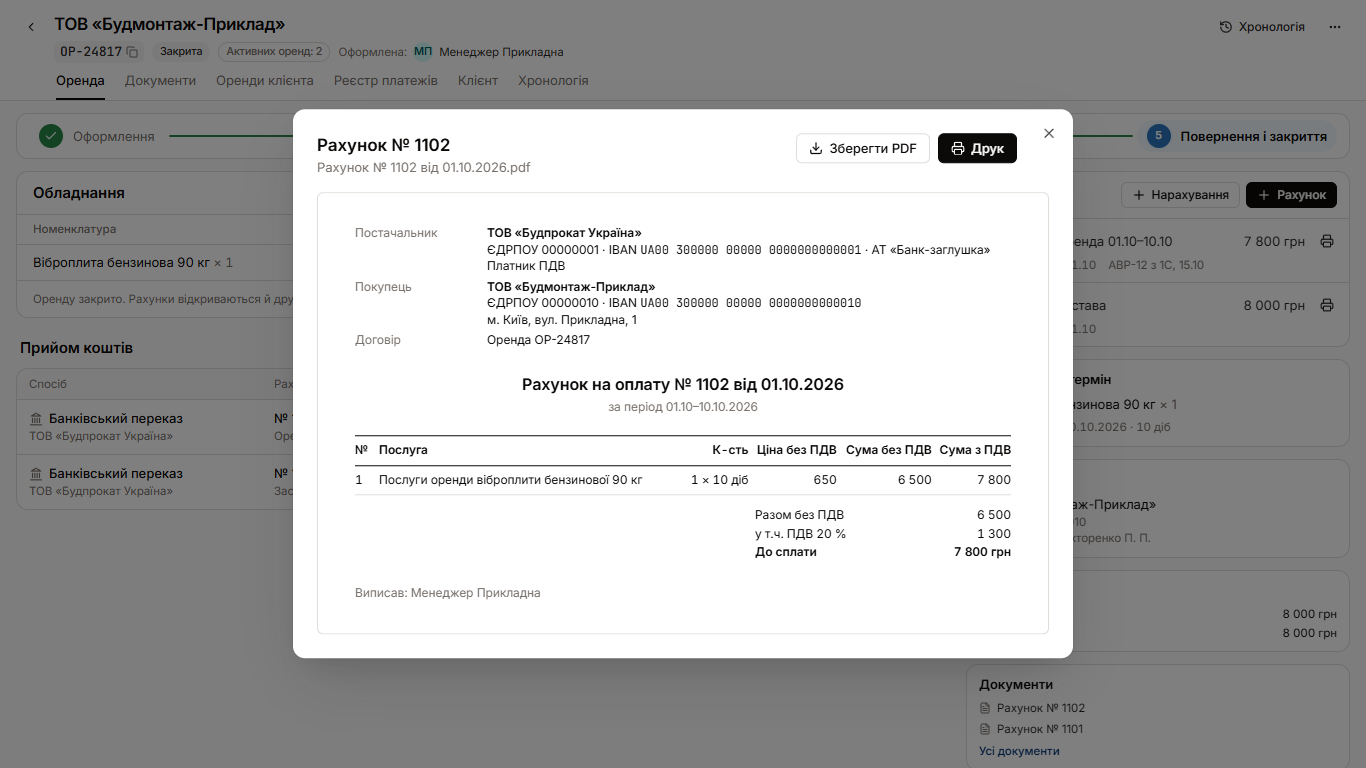
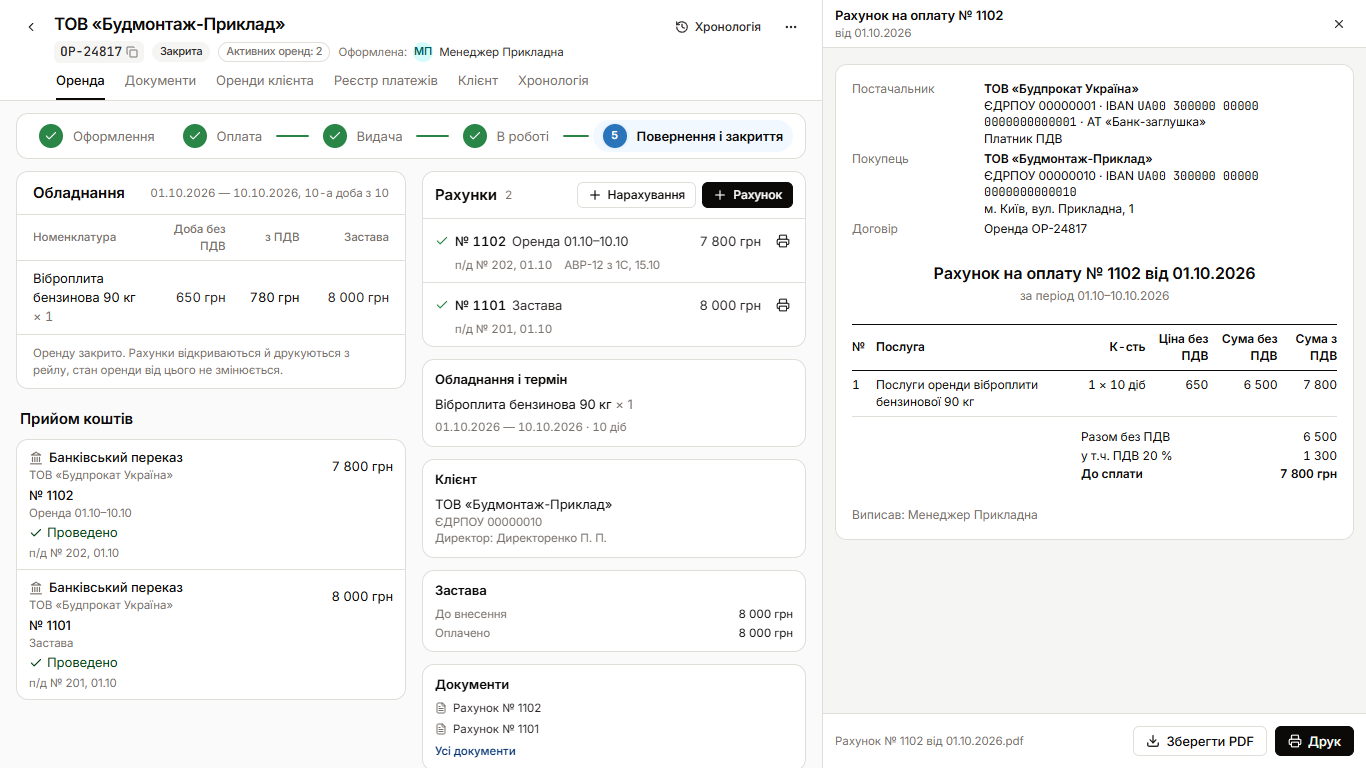
Перегляд рахунку: docked-панель замість модалки, без авто-відкриття
Модалка з рахунком вискакувала сама на всіх нових варіантах, щойно 1С
присвоювала номер, і закривала сторінку. Тепер:
- нічого не відкривається саме; рахунок відкривається тільки за дією
  менеджера (друк, «Відкрити»);
- перегляд — docked-панель праворуч за каноном CRM (DrawerShell, як
  RentDocumentDrawer): шапка h-12, тіло на canvas, футер з діями, Esc
  закриває; Dialog у CRM лишається для коротких підтверджень;
- таблиця «Прийом коштів» не ламається у вузькій колонці при відкритій
  панелі.
README, shape.md, кадри й прогін оновлено.

diff --git a/src/variants/shared/ReceiptsTable.tsx b/src/variants/shared/ReceiptsTable.tsx
@@ -7,7 +7,15 @@ import { ORG_BY_ID } from '@/mock/orgs'
 import type { Rent } from '@/mock/types'
 import { Proposal } from './Proposal'
 
-const GRID = 'grid grid-cols-[minmax(0,1.5fr)_minmax(0,1.6fr)_minmax(0,1.2fr)_6.5rem_5.5rem] items-center gap-x-3 px-3 py-2'
+const GRID =
+  'grid grid-cols-[minmax(0,1fr)_auto] items-center gap-x-3 gap-y-0.5 px-3 py-2 @[38rem]:grid-cols-[minmax(0,1.5fr)_minmax(0,1.6fr)_minmax(0,1.2fr)_6.5rem_5.5rem]'
+// Місце клітинки у вузькому вигляді; на широкому порядок за DOM.
+const NARROW = {
+  invoice: 'col-span-2 order-2 @[38rem]:col-span-1 @[38rem]:order-none',
+  status: 'col-span-2 order-3 @[38rem]:col-span-1 @[38rem]:order-none',
+  amount: 'order-1 @[38rem]:order-none',
+  vat: 'hidden @[38rem]:block',
+}
 
 /**
  * «Прийом коштів» нових варіантів: ті самі колонки, що в проді (Спосіб ·
@@ -33,8 +41,8 @@ export function ReceiptsTable({ rent }: { rent: Rent }) {
     )
   }
   return (
-    <div className="overflow-hidden rounded-lg border border-border bg-card" data-testid="receipts-table">
-      <div className={cn(GRID, 'border-b border-border bg-muted/50 py-1.5 text-label text-muted-fg')}>
+    <div className="@container overflow-hidden rounded-lg border border-border bg-card" data-testid="receipts-table">
+      <div className={cn(GRID, 'hidden border-b border-border bg-muted/50 py-1.5 text-label text-muted-fg @[38rem]:grid')}>
         <span>Спосіб</span>
         <span className="flex items-center gap-1.5">
           Рахунок
@@ -57,17 +65,17 @@ export function ReceiptsTable({ rent }: { rent: Rent }) {
               <p className="truncate text-label text-muted-fg">{ORG_BY_ID[rent.orgId].name}</p>
             </div>
             {inv ? (
-              <p className="min-w-0 text-body text-fg-2" data-pay-invoice={inv.number ?? ''}>
+              <p className={cn('min-w-0 text-body text-fg-2', NARROW.invoice)} data-pay-invoice={inv.number ?? ''}>
                 <span className="font-medium text-fg">№ {inv.number ?? '—'}</span>
                 <span className="block truncate text-label text-muted-fg">{invoiceTitle(rent, inv)}</span>
               </p>
             ) : (
-              <p className="min-w-0 text-body text-fg-2">
+              <p className={cn('min-w-0 text-body text-fg-2', NARROW.invoice)}>
                 <span className="font-medium text-fg">На балансі</span>
                 <span className="block truncate text-label text-muted-fg">рахунок не розпізнано, прив’яже бухгалтерія</span>
               </p>
             )}
-            <div>
+            <div className={NARROW.status}>
               <span className="inline-flex items-center gap-1 text-body text-success-fg">
                 <Check className="size-3.5" aria-hidden />
                 Проведено
@@ -76,8 +84,8 @@ export function ReceiptsTable({ rent }: { rent: Rent }) {
                 п/д № {p.number}, {fmtDay(p.date)}
               </p>
             </div>
-            <span className="text-right text-body tabular-nums text-fg">{formatMoney(p.amount)}</span>
-            <span className="text-right text-body tabular-nums text-muted-fg">{vat ? formatMoney(Math.round(vat)) : '—'}</span>
+            <span className={cn('text-right text-body tabular-nums text-fg', NARROW.amount)}>{formatMoney(p.amount)}</span>
+            <span className={cn('text-right text-body tabular-nums text-muted-fg', NARROW.vat)}>{vat ? formatMoney(Math.round(vat)) : '—'}</span>
           </div>
         )
       })}
@@ -92,19 +100,19 @@ export function ReceiptsTable({ rent }: { rent: Rent }) {
               </p>
               <p className="truncate text-label text-muted-fg">{ORG_BY_ID[c.fopId].name}</p>
             </div>
-            <p className="min-w-0 text-body text-fg-2">
+            <p className={cn('min-w-0 text-body text-fg-2', NARROW.invoice)}>
               <span className="font-medium text-fg">{ch?.article ?? c.purpose}</span>
               <span className="block truncate text-label text-muted-fg">рахунки не змінюються</span>
             </p>
-            <div>
+            <div className={NARROW.status}>
               <span className="inline-flex items-center gap-1 text-body text-success-fg">
                 <Check className="size-3.5" aria-hidden />
                 Підтверджено
               </span>
               <p className="text-label text-muted-fg">{c.number ? `ПКО ${c.number}` : 'ПКО — № очікується'}</p>
             </div>
-            <span className="text-right text-body tabular-nums text-fg">{formatMoney(c.amount)}</span>
-            <span className="text-right text-body text-muted-fg">—</span>
+            <span className={cn('text-right text-body tabular-nums text-fg', NARROW.amount)}>{formatMoney(c.amount)}</span>
+            <span className={cn('text-right text-body text-muted-fg', NARROW.vat)}>—</span>
           </div>
         )
       })}

diff --git a/src/features/rent/print/PrintDrawer.tsx b/src/features/rent/print/PrintDrawer.tsx
@@ -1,0 +1,107 @@
+import { useEffect } from 'react'
+import { Download, Printer, X } from 'lucide-react'
+import { Button } from '@/components/ui/button'
+import { canPrint, fmtDate, pdfName } from '@/domain/money'
+import type { Invoice, Rent } from '@/mock/types'
+import { InvoiceDocument } from './InvoiceDocument'
+
+/**
+ * Перегляд рахунку — docked-панель праворуч, як у CRM (`RentDocumentDrawer`,
+ * `DrawerShell`): шапка-смуга h-12, тіло на тоні `canvas`, футер з діями.
+ * Це не оверлей і не модалка: сторінка лишається поруч і ніколи не
+ * закривається сама. Модалка в CRM — для коротких підтверджень (story
+ * Primitives/Dialog), документи відкриваються панеллю.
+ *
+ * Перегляд і друк стан оренди не змінюють (§3, сцена 10). «Зберегти PDF» —
+ * системний діалог друку з підставленим ім'ям файлу: браузер бере його з
+ * `document.title` (D10, G3).
+ */
+export function PrintDrawer({
+  rent,
+  invoice,
+  set = [],
+  onPick,
+  onClose,
+}: {
+  rent: Rent
+  invoice: Invoice
+  /** Рахунки, відкриті разом; більше одного — перемикач над бланком. */
+  set?: Invoice[]
+  onPick?: (invoice: Invoice) => void
+  onClose: () => void
+}) {
+  const printable = canPrint(invoice)
+  // Docked-панель не оверлей, фокус-пастки немає: Esc ловимо на window.
+  useEffect(() => {
+    const onKey = (e: KeyboardEvent) => e.key === 'Escape' && onClose()
+    window.addEventListener('keydown', onKey)
+    return () => window.removeEventListener('keydown', onKey)
+  }, [onClose])
+  return (
+    <aside
+      className="flex h-full w-[34rem] shrink-0 flex-col border-l border-border bg-card"
+      aria-label={`Рахунок № ${invoice.number ?? ''}`}
+      data-print-drawer=""
+      data-testid="print-drawer"
+    >
+      <div className="flex h-12 shrink-0 items-center gap-2 border-b border-border bg-card px-3" data-print-hide="">
+        <div className="min-w-0 flex-1">
+          <p className="truncate text-body font-semibold text-fg">Рахунок на оплату № {invoice.number ?? '—'}</p>
+          <p className="truncate text-label text-muted-fg">від {fmtDate(invoice.date)}</p>
+        </div>
+        <Button variant="ghost" size="icon" aria-label="Закрити" onClick={onClose} data-testid="print-close">
+          <X aria-hidden />
+        </Button>
+      </div>
+
+      <div className="min-h-0 flex-1 space-y-3 overflow-y-auto bg-canvas px-3 py-4">
+        {set.length > 1 && (
+          <div className="flex gap-1" role="tablist" aria-label="Рахунки" data-print-hide="">
+            {set.map((i) => (
+              <button
+                key={i.id}
+                type="button"
+                role="tab"
+                aria-selected={i.id === invoice.id}
+                onClick={() => onPick?.(i)}
+                data-testid="print-set-tab"
+                className={
+                  i.id === invoice.id
+                    ? 'rounded-md border border-fg bg-fg px-2.5 py-1 text-label font-medium text-primary-fg'
+                    : 'rounded-md border border-border bg-card px-2.5 py-1 text-label text-fg-2 hover:bg-muted'
+                }
+              >
+                № {i.number ?? 'очікується'} — {i.kind === 'deposit' ? 'застава' : 'оренда'}
+              </button>
+            ))}
+          </div>
+        )}
+        <div data-public-invoice="" className="overflow-hidden rounded-lg border border-border bg-card">
+          <InvoiceDocument rent={rent} invoice={invoice} compact />
+        </div>
+      </div>
+
+      <div className="flex shrink-0 items-center gap-2 border-t border-border bg-card px-3 py-3" data-print-hide="">
+        <p className="min-w-0 flex-1 truncate text-label text-muted-fg">{printable ? pdfName(invoice) : 'Друк буде доступний після присвоєння номера.'}</p>
+        <Button variant="secondary" disabled={!printable} onClick={() => printWithName(invoice)} data-testid="print-save-pdf">
+          <Download aria-hidden />
+          Зберегти PDF
+        </Button>
+        <Button disabled={!printable} onClick={() => window.print()} data-testid="print-print">
+          <Printer aria-hidden />
+          Друк
+        </Button>
+      </div>
+    </aside>
+  )
+}
+
+/** Тимчасово підміняє заголовок вкладки: його браузер пропонує як ім'я PDF. */
+export function printWithName(invoice: Invoice) {
+  const prev = document.title
+  document.title = pdfName(invoice).replace(/\.pdf$/, '')
+  window.print()
+  window.setTimeout(() => {
+    document.title = prev
+  }, 500)
+}

diff --git a/src/features/rent/RentCard.tsx b/src/features/rent/RentCard.tsx
@@ -4,12 +4,11 @@ import { RentHeader } from './RentHeader'
 import { RentStageStepper } from './RentStageStepper'
 import { CardContext, type CardActions } from './card-context'
 import { Chronology } from './Chronology'
-import { PrintDialog } from './print/PrintDialog'
+import { PrintDrawer } from './print/PrintDrawer'
 import { rentStageForStatus } from './stages'
 import { useLab } from '@/lab/lab-state'
 import { useStore } from '@/state/store'
 import { VARIANT_UI } from '@/variants/registry'
-import { AutoPrint } from '@/variants/shared/use-auto-print'
 import type { Invoice } from '@/mock/types'
 
 /**
@@ -53,7 +52,8 @@ export function RentCard() {
   return (
     <CardContext.Provider value={actions}>
       <TooltipProvider delayDuration={150}>
-        <div className="flex h-full flex-col overflow-hidden bg-bg">
+        <div className="flex h-full overflow-hidden bg-bg">
+        <div className="flex min-w-0 flex-1 flex-col overflow-hidden">
           <div className="shrink-0 border-b border-border">
             <RentHeader
               rent={rent}
@@ -99,16 +99,18 @@ export function RentCard() {
             </div>
           </div>
         </div>
-        {/* Перші два рахунки відкривають друк, щойно прийде номер (D1) — на будь-якій вкладці. */}
-        {party === 'ul' && step !== '0' && <AutoPrint rent={rent} />}
+        {/* Перегляд рахунку — docked-панель, як документи в CRM; сама не відкривається. */}
+        {live && (
+          <PrintDrawer
+            rent={rent}
+            invoice={live}
+            set={liveSet}
+            onPick={(inv) => setPrinting((p) => (p ? { ...p, id: inv.id } : p))}
+            onClose={() => setPrinting(null)}
+          />
+        )}
+        </div>
         <Chronology open={chronology} onClose={() => setChronology(false)} />
-        <PrintDialog
-          rent={rent}
-          invoice={live}
-          set={liveSet}
-          onPick={(inv) => setPrinting((p) => (p ? { ...p, id: inv.id } : p))}
-          onClose={() => setPrinting(null)}
-        />
       </TooltipProvider>
     </CardContext.Provider>
   )

diff --git a/src/variants/b/RailB.tsx b/src/variants/b/RailB.tsx
@@ -122,7 +122,7 @@ export function RailB() {
             <p className="mt-0.5 text-label text-muted-fg">
               {rent.status === 'DRAFT' ? (
                 <>
-                  Оренда і застава сформуються самі, щойно оренда перейде до оплати. <Proposal note="Перші два рахунки створюються автоматично на переході «Оформлення → Оплата» і відкривають друкарські форми, щойно 1С присвоїть номери." />
+                  Оренда і застава сформуються самі, щойно оренда перейде до оплати. <Proposal note="Перші два рахунки створюються автоматично на переході «Оформлення → Оплата»; друк стає доступним, щойно 1С присвоїть номери." />
                 </>
               ) : (
                 'Виставте перший кнопкою «+ Рахунок».'

diff --git a/src/variants/shared/stage-blocks.tsx b/src/variants/shared/stage-blocks.tsx
@@ -171,7 +171,7 @@ export function invoicesSentence(rent: Rent, where: string): { tone: StageTone; 
   if (failed)
     return { tone: 'attention', status: 'Номер не прийшов', text: `1С не присвоїла номер. Друк і PDF недоступні, доки номер не прийде; деталі — ${where}.` }
   if (pending)
-    return { tone: 'waiting', status: '№ очікується', text: `Оренда і застава сформовані на переході до оплати. Друкарська форма відкриється сама, щойно 1С присвоїть номер.` }
+    return { tone: 'waiting', status: '№ очікується', text: `Оренда і застава сформовані на переході до оплати. Друк стане доступним, щойно 1С присвоїть номер.` }
   return { tone: 'done', status: `${live.length} сформовано`, text: `Рахунки ${numbers.join(' і ')} готові: друк і PDF — ${where}.` }
 }
 

diff --git a/src/features/rent/print/InvoiceDocument.tsx b/src/features/rent/print/InvoiceDocument.tsx
@@ -20,13 +20,13 @@ import type { Invoice, Rent } from '@/mock/types'
  * Повна назва послуги і повний IBAN не обрізаються: це юридичний документ
  * (§3, крайні стани).
  */
-export function InvoiceDocument({ rent, invoice }: { rent: Rent; invoice: Invoice }) {
+export function InvoiceDocument({ rent, invoice, compact }: { rent: Rent; invoice: Invoice; /** У docked-панелі: менші поля. */ compact?: boolean }) {
   const org = ORG_BY_ID[invoice.orgId]
   const cp = rent.counterparty
   const vatFree = isVatFree(invoice)
   return (
     <article
-      className="invoice-sheet mx-auto w-full max-w-[720px] bg-white p-8 text-[12px] leading-snug text-fg"
+      className={`invoice-sheet mx-auto w-full max-w-[720px] bg-white ${compact ? 'p-4' : 'p-8'} text-[12px] leading-snug text-fg`}
       data-testid="invoice-document"
     >
       <header className="grid grid-cols-[7.5rem_1fr] gap-x-3 gap-y-1">

diff --git a/src/styles/globals.css b/src/styles/globals.css
@@ -1297,14 +1297,10 @@ table:has(> colgroup[data-fixed]) {
   [data-public-invoice] [data-print-hide] {
     display: none;
   }
-  /* Діалог центрується transform'ом: без скидання аркуш друкувався
-     зсунутим за край або чистим (урок bp-1259). */
-  [data-print-dialog] {
-    position: static !important;
-    transform: none !important;
-    max-height: none !important;
+  /* Панель не має обрізати аркуш: бланк друкується з початку сторінки. */
+  [data-print-drawer] {
+    width: auto !important;
     overflow: visible !important;
-    box-shadow: none !important;
   }
 }
 

diff --git a/src/variants/shared/invoice-parts.tsx b/src/variants/shared/invoice-parts.tsx
@@ -5,7 +5,7 @@ import { Button } from '@/components/ui/button'
 import { DropdownMenu, DropdownMenuContent, DropdownMenuItem, DropdownMenuTrigger } from '@/components/ui/dropdown-menu'
 import { canPrint, fmtDate, fmtDay, isCancellable, isEditable, paymentsOf } from '@/domain/money'
 import { useCard } from '@/features/rent/card-context'
-import { printWithName } from '@/features/rent/print/PrintDialog'
+import { printWithName } from '@/features/rent/print/PrintDrawer'
 import { formatMoney } from '@/lib/money'
 import { cn } from '@/lib/utils'
 import type { Invoice, Rent } from '@/mock/types'

diff --git a/src/variants/v0/MethodsV0.tsx b/src/variants/v0/MethodsV0.tsx
@@ -23,7 +23,7 @@ import { toast } from '@/components/ui/toast'
 import { canPrint, unbilledCharges, vatFor } from '@/domain/money'
 import { compositionFor, paymentTarget, prodMoney, prodPayments, TARGET_LABEL } from '@/domain/prod'
 import { useCard } from '@/features/rent/card-context'
-import { printWithName } from '@/features/rent/print/PrintDialog'
+import { printWithName } from '@/features/rent/print/PrintDrawer'
 import { formatMoney } from '@/lib/money'
 import { cn } from '@/lib/utils'
 import { ORG_BY_ID } from '@/mock/orgs'

diff --git a/src/variants/shared/DocumentsTree.tsx b/src/variants/shared/DocumentsTree.tsx
@@ -5,7 +5,7 @@ import { Button } from '@/components/ui/button'
 import { canPrint, fmtDate, invoiceTotal, paymentsOf } from '@/domain/money'
 import { byFreshness, invoiceTitle } from '@/domain/invoicing'
 import { useCard } from '@/features/rent/card-context'
-import { printWithName } from '@/features/rent/print/PrintDialog'
+import { printWithName } from '@/features/rent/print/PrintDrawer'
 import { formatMoney } from '@/lib/money'
 import { cn } from '@/lib/utils'
 import { ORG_BY_ID } from '@/mock/orgs'

diff --git a/src/variants/v0/DocumentsV0.tsx b/src/variants/v0/DocumentsV0.tsx
@@ -3,7 +3,7 @@ import { Button } from '@/components/ui/button'
 import { canPrint, invoiceTotal } from '@/domain/money'
 import { baseInvoice } from '@/domain/prod'
 import { useCard } from '@/features/rent/card-context'
-import { printWithName } from '@/features/rent/print/PrintDialog'
+import { printWithName } from '@/features/rent/print/PrintDrawer'
 import { formatMoney } from '@/lib/money'
 import type { Invoice, Rent } from '@/mock/types'
 import { useStore } from '@/state/store'

diff --git a/docs/shape.md b/docs/shape.md
@@ -23,7 +23,7 @@
 
 Це правила з §3 брифу з поправками з `questions.md`. Варіанти A–D тримають їх однаково, щоб різниця була тільки структурною. Варіант 0 показує прод як є.
 
-- **Старт.** На переході «Оформлення → Оплата» автоматично формуються два рахунки: оренда з ПДВ і застава «без ПДВ». Обидва йдуть в 1С без номера, у шапці рахунку стоїть «№ очікується», друк і збереження недоступні. Номер приходить приблизно за 8 с (у прототипі — таймер), після цього відкривається друкарська форма. Подальші рахунки створюються тільки дією менеджера. *Пропозиція* (D1).
+- **Старт.** На переході «Оформлення → Оплата» автоматично формуються два рахунки: оренда з ПДВ і застава «без ПДВ». Обидва йдуть в 1С без номера, у шапці рахунку стоїть «№ очікується», друк і збереження недоступні. Номер приходить приблизно за 8 с (у прототипі — таймер), після цього друк стає доступним (форма сама не відкривається). Подальші рахунки створюються тільки дією менеджера. *Пропозиція* (D1).
 - **Номер не прийшов** (сцена 8). Стан помилки на рахунку: «1С не присвоїла номер», друк і збереження недоступні, на рахунку видно, що розробникам передано. Аварійного режиму і кнопки «Повторити» в прототипі немає. *Пропозиція* (B6, F9).
 - **Рядок рахунку** — `послуги оренди <номенклатура>`, повна назва без обрізання. Кожне доп. нарахування — свій рядок. Застава — окремий рахунок з однією послугою.
 - **Ціни** — дві колонки, без ПДВ і з ПДВ. ПДВ живе на рядку. Штрафні санкції за замовчуванням без ПДВ, змінюються галочкою.
@@ -110,7 +110,7 @@
                                                 │  ▓▓▓▓▓▓▓▓░░  повернення 20.11
 ```
 
-- **Сцена 1.** На переході на «Оплату» в рейлі з'являються дві картки з «№ очікується». Друкарська форма першого рахунку відкривається, щойно приходить номер.
+- **Сцена 1.** На переході на «Оплату» в рейлі з'являються дві картки з «№ очікується». Друк першого рахунку стає доступним, щойно приходить номер; форма сама не відкривається.
 - **Сцена 2.** «+ Рахунок» розгортає під кнопкою список невиставлених нарахувань з галочками («Доставка 1 000» відмічена) і «Додати послугу». Далі «Сформувати». Старі картки не змінюються.
 - **Сцена 3.** Якщо до кінця оплаченого періоду лишається менше 3 днів, у рейлі з'являється підказка «Наступний період з 01.11 → рахунок». Клік відкриває «+ Рахунок» зі складом попереднього рахунку і полем «по яке число».
 - **Сцена 4 (б).** Кнопки продовження немає. Блок «Оренда» в рейлі показує «Грошей вистачить до <дата>»: проведені платіжки по рахунках оренди з ПДВ мінус нарахування, поділені на ставку за добу з ПДВ (G2). Застава окремо. Клієнт оплатив 20 000, і дата зсувається. Якщо вона пізніша за планове повернення, з'являється підказка «змінити повернення на <дата>».
